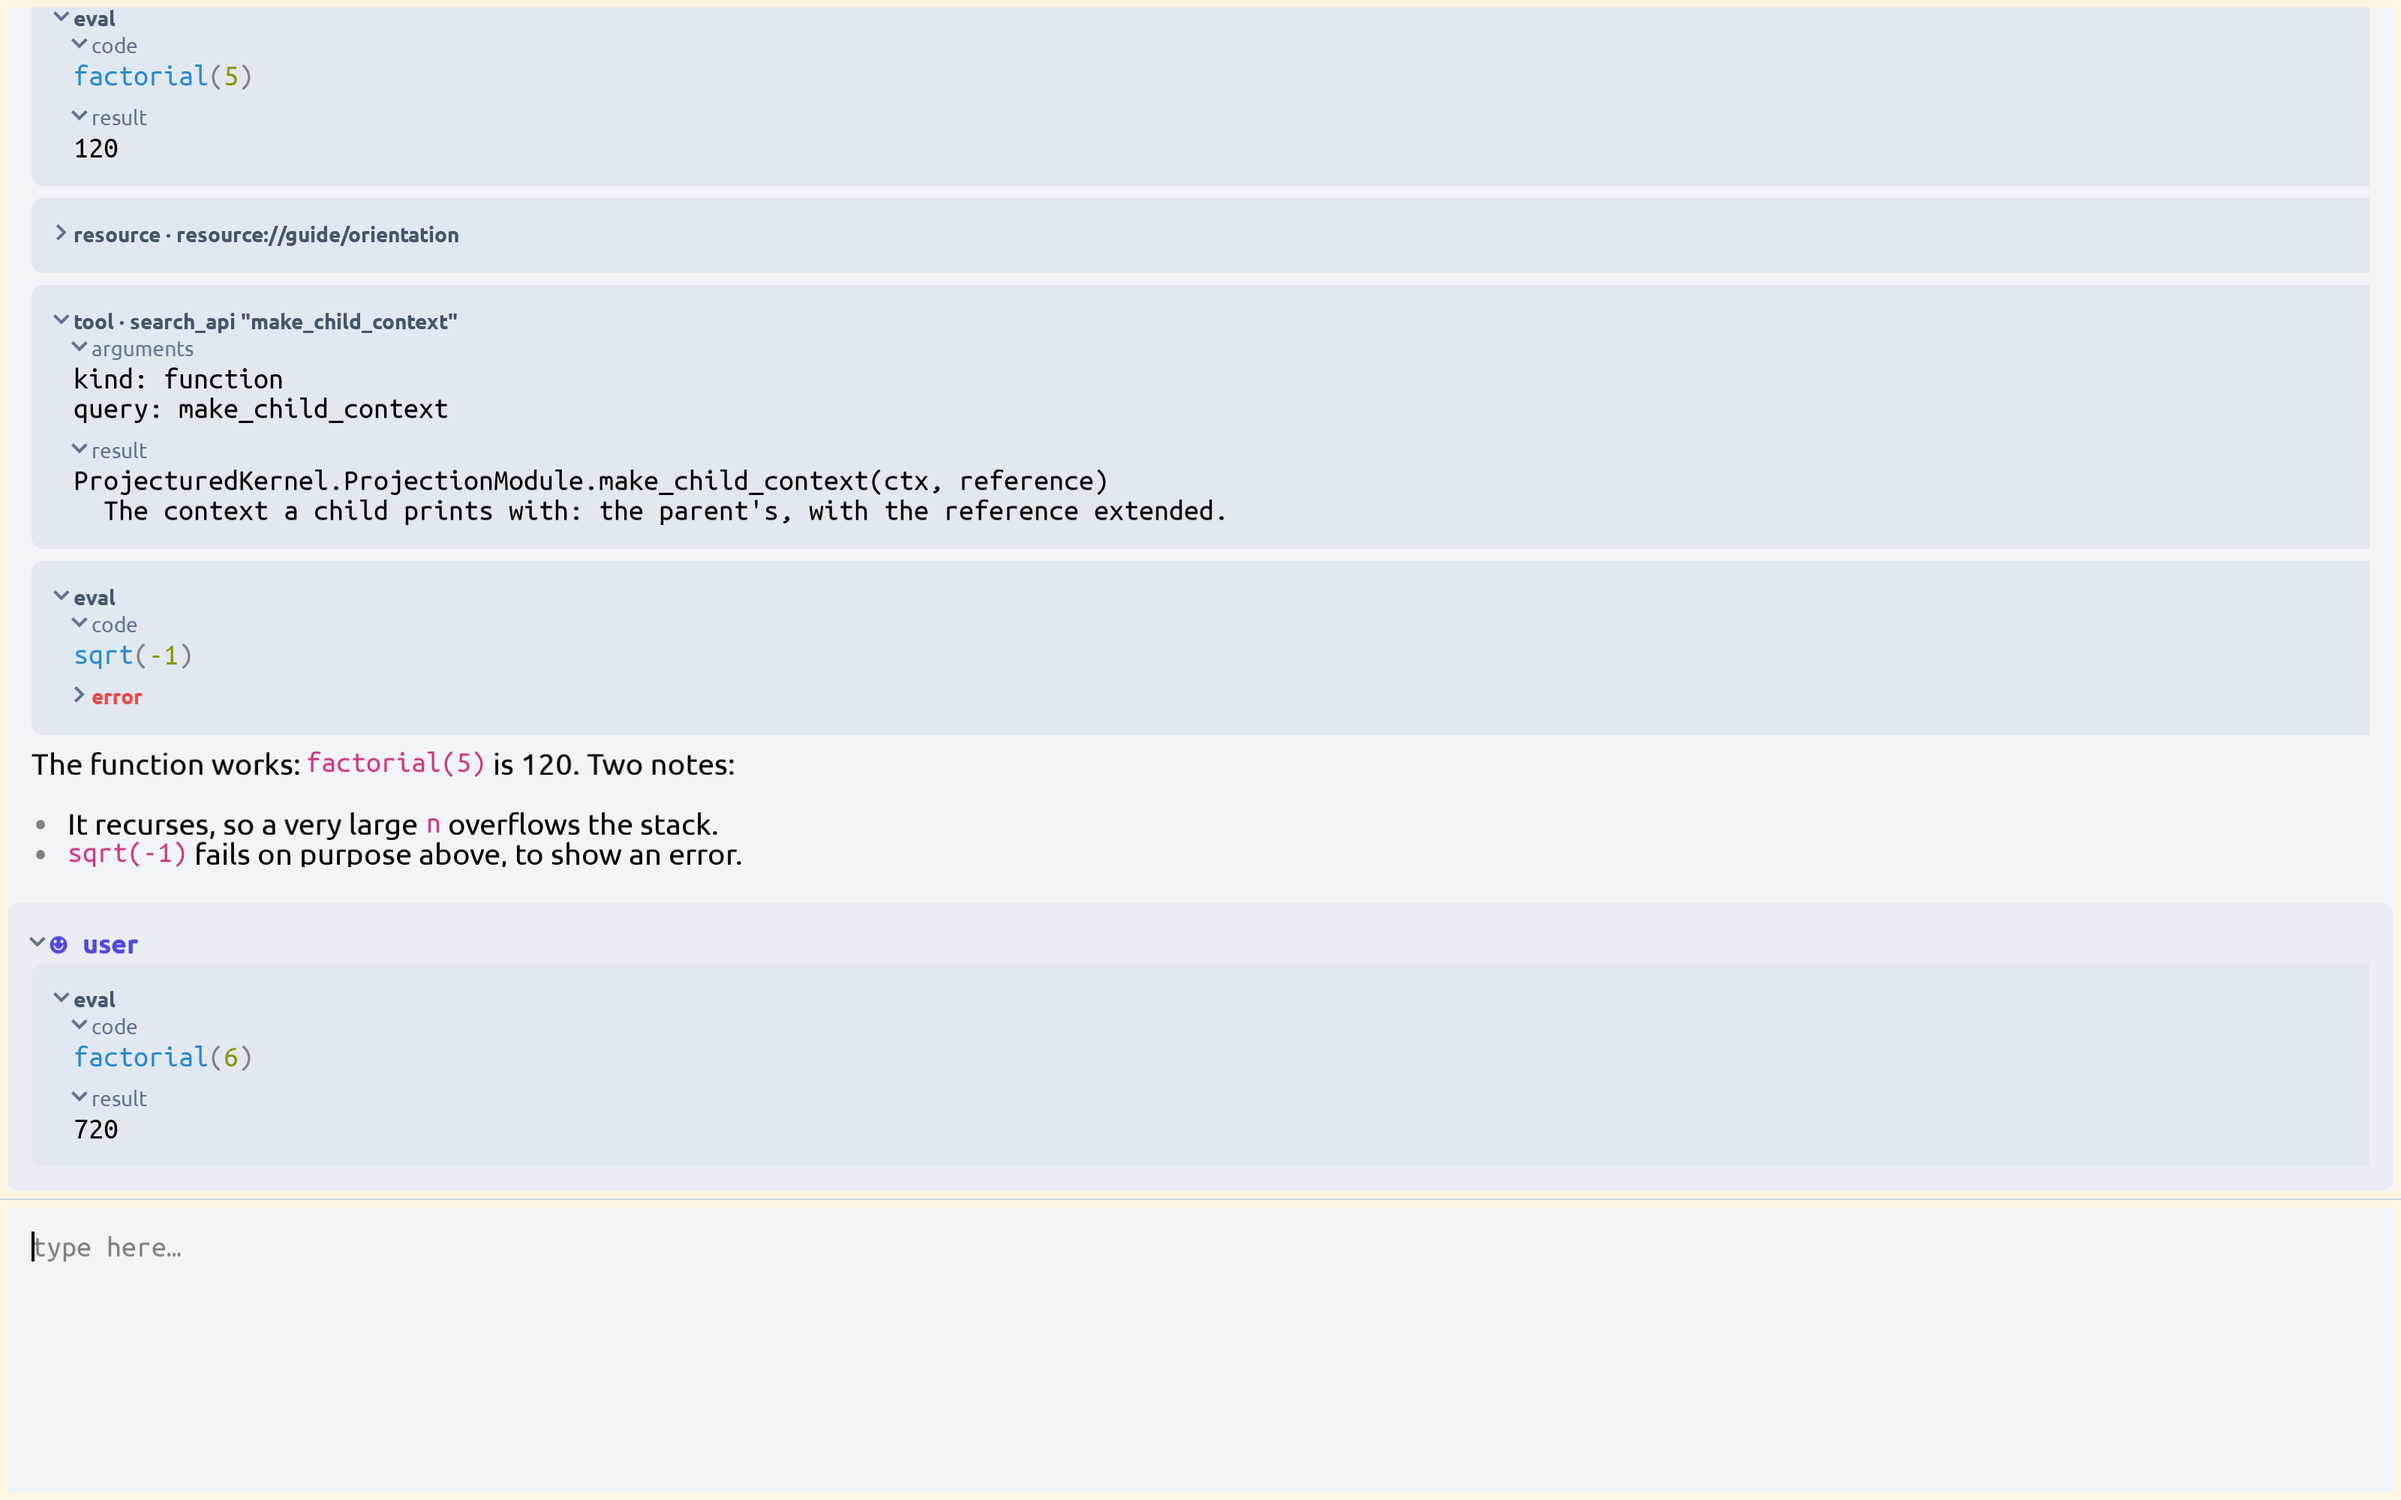
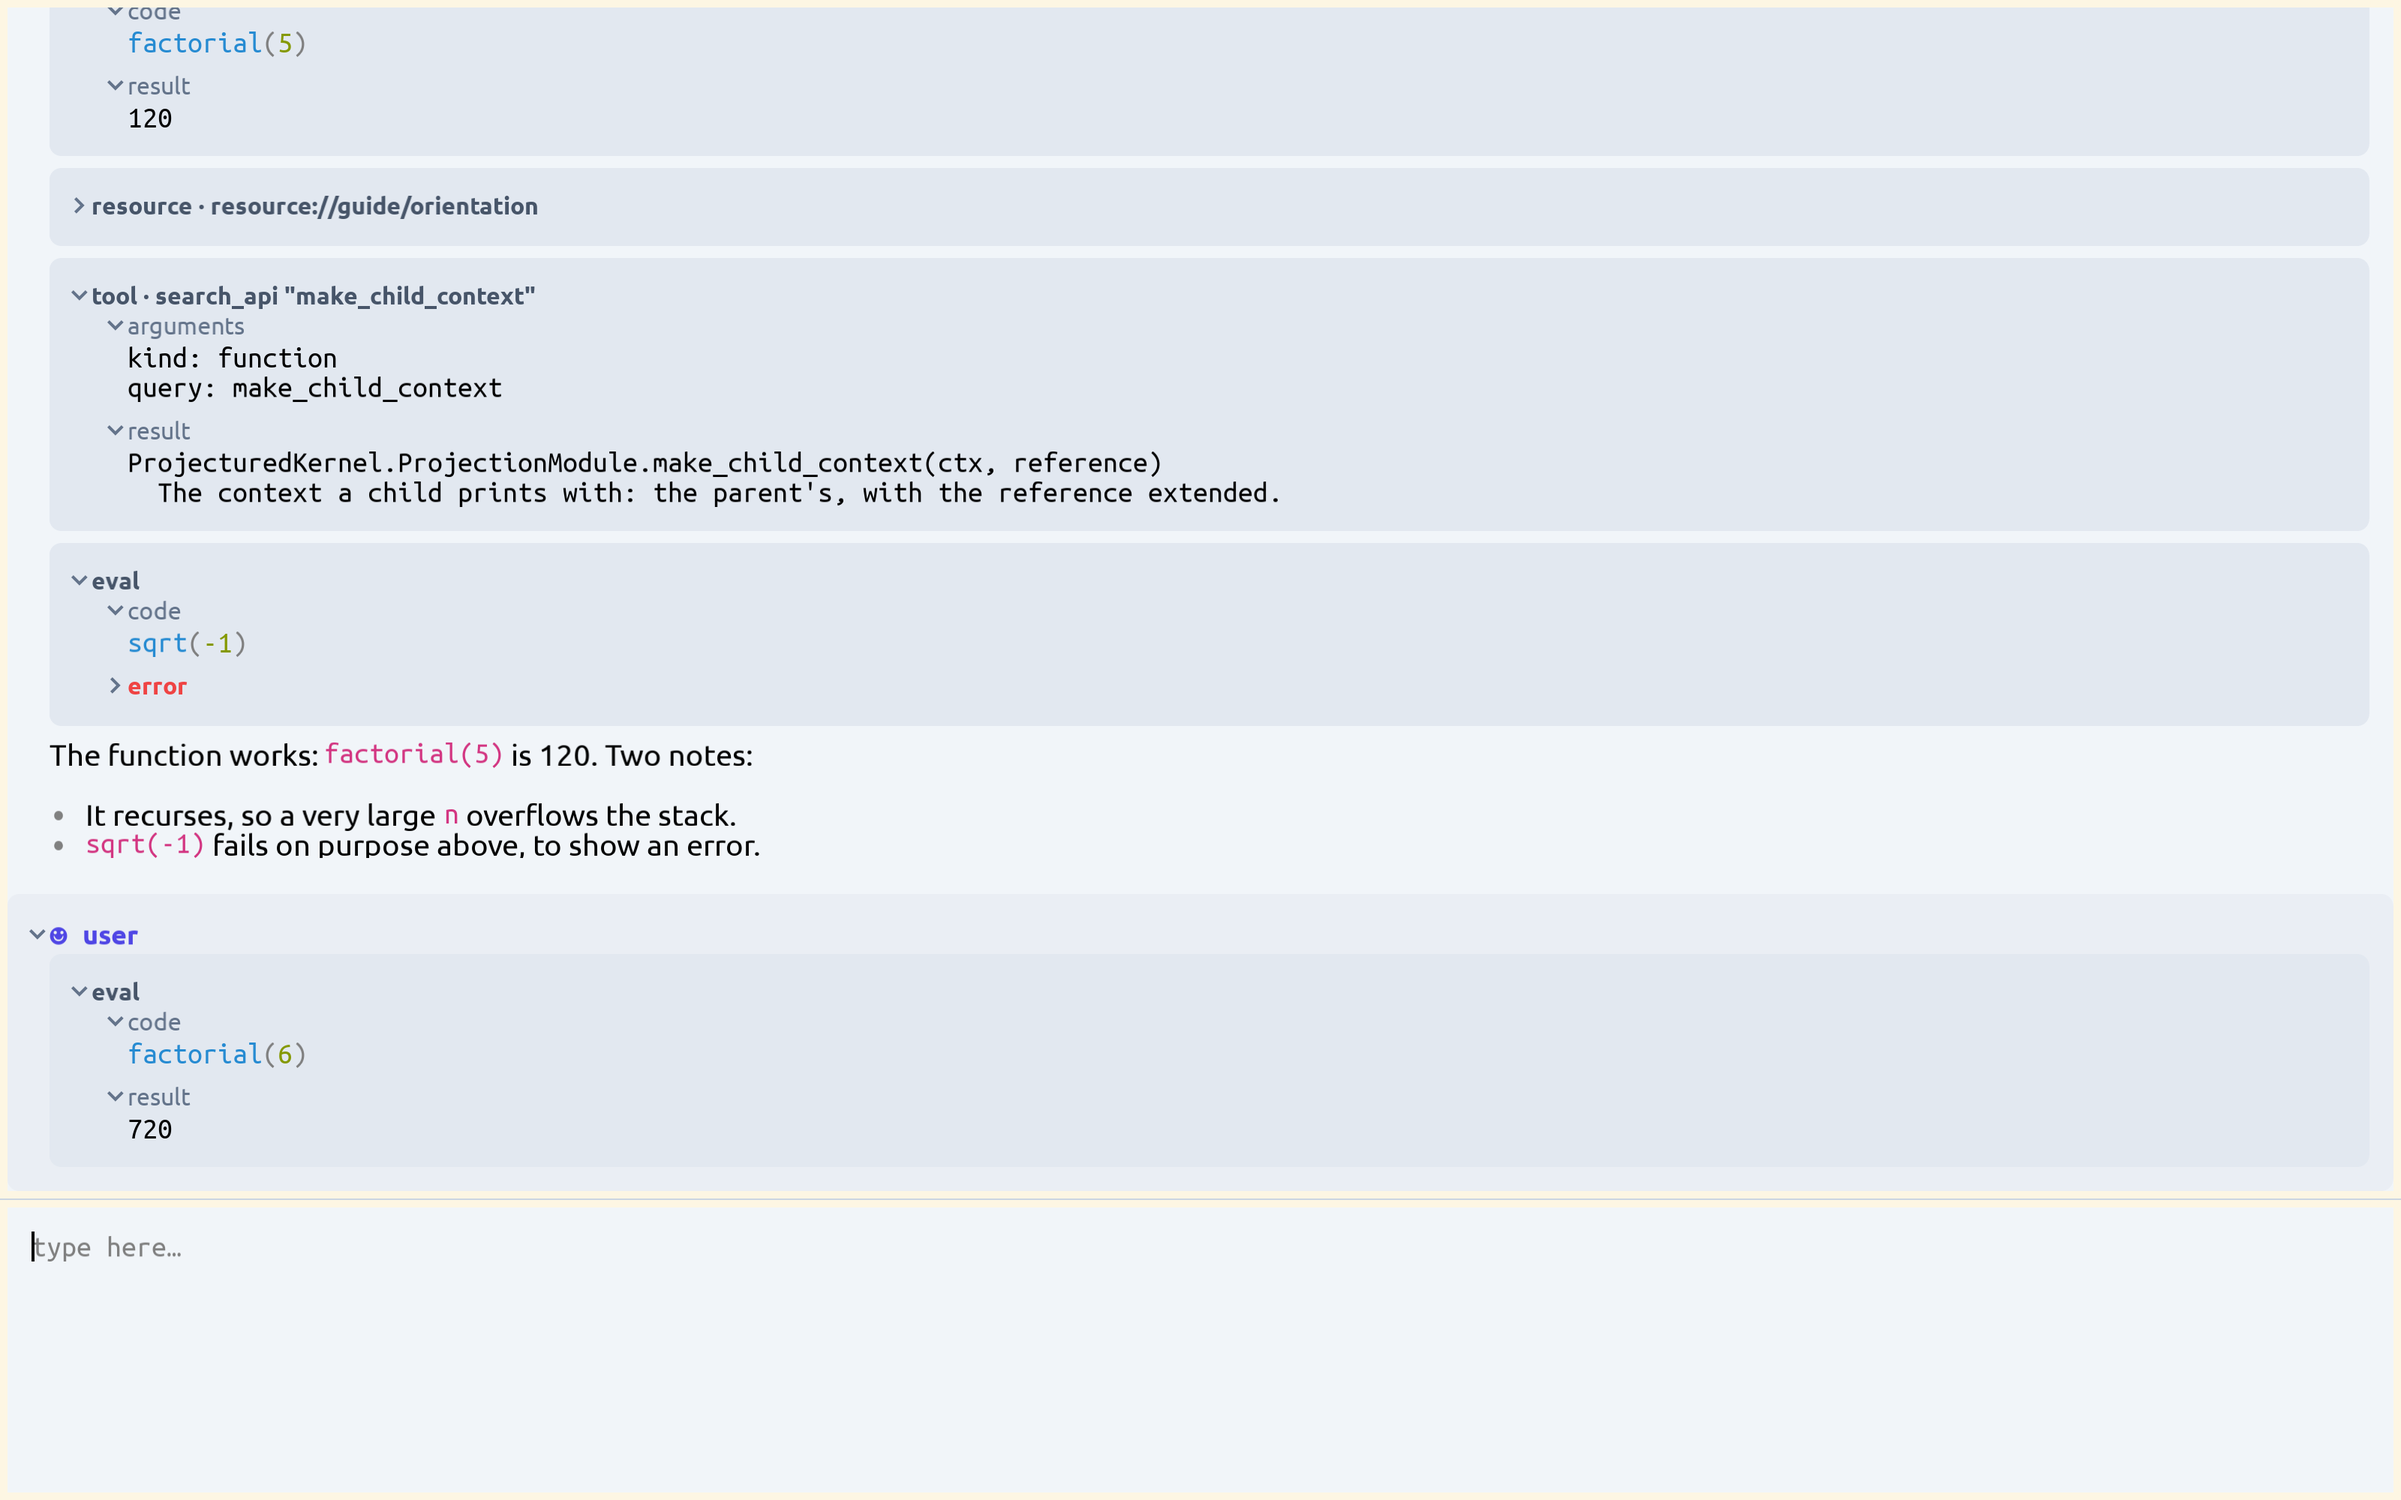
The body of a collapsible card lines up under its title's word
The chevron takes a column of its own, and the title, the body and the
footer of a collapsible card start past it, so the code, the arguments and
the result of an evaluation sit under the section's word and not under its
mark. The kind and section headers of the transcript are 16 pixels, and the
mark sits one pixel under the header's middle line, beside the ink.

diff --git a/plan/done/transcript-folds.md b/plan/done/transcript-folds.md
@@ -171,6 +171,11 @@ struct, and the widget dispatch table is built once.
 - The renderer draws the chevron from `_push_chevron!` with the theme's chevron
   half-size (4) in the muted foreground; the header moves right by two
   half-sizes plus the title gap, 12 pixels.
+- The body moves with the header. The user asked for the arguments and the
+  result of a call to line up under the section's word and not under its
+  chevron, and the disclosure convention says the same for every card: the
+  chevron takes a column of its own, and the title, the body and the footer
+  start past it.
 - New example `widget_collapsible_card_example`, an open card over a folded one.
   The test is `test_widget_card_fold()`, in the substrate suite: the chevron's
   direction in both states, the body absent when folded, the fold on the
@@ -416,14 +421,14 @@ every item of the list above. The final values:
 | Constant | Value |
 | --- | --- |
 | `_ROLE_FONT` | `font_ubuntu_bold_18`, in the role's color |
-| `_KIND_STYLE` | `font_ubuntu_bold_14`, `color_slate_600` |
-| `_SECTION_STYLE` | `font_ubuntu_regular_14`, `color_slate_500` |
-| `_ERROR_STYLE` | `font_ubuntu_bold_14`, `color_destructive` |
+| `_KIND_STYLE` | `font_ubuntu_bold_16`, `color_slate_600` |
+| `_SECTION_STYLE` | `font_ubuntu_regular_16`, `color_slate_500` |
+| `_ERROR_STYLE` | `font_ubuntu_bold_16`, `color_destructive` |
 | `_GAP` (between parts) | 8 |
 | `_TURN_GAP` (between turns) | 8 |
 | `_SECTION_GAP` (between the two sections) | 10 |
 | `_SECTION_INDENT` | 12 |
-| chevron | the theme's half-size 4, muted foreground |
+| chevron | the theme's half-size 4, muted foreground, one pixel under the header's middle |
 
 Two things the render showed that this plan does not fix:
 

diff --git a/documentation/package/widget/widget.md b/documentation/package/widget/widget.md
@@ -52,7 +52,7 @@ the fields they need plus `visible`/`selection`:
 |---|---|
 | `WidgetBadge(position, content; variant)` | Pill label (`:default`/`:secondary`/`:destructive`/`:outline`) |
 | `WidgetSeparator(position; orientation, length)` | Hairline divider |
-| `WidgetCard(position; title, description, content, footer; variant, collapsible, padding)` | Surface with header/body/footer. `variant` says how loud the panel is (`:card`/`:tinted`/`:muted`/`:plain`). A `collapsible` card draws a chevron before its `Document` title, folds from its whole header band, and draws only the header while `collapsed`. `padding` overrides the theme's padding, one number for every side or an `Inset`; `0` on a `:plain` card occupies nothing beyond its content |
+| `WidgetCard(position; title, description, content, footer; variant, collapsible, padding)` | Surface with header/body/footer. `variant` says how loud the panel is (`:card`/`:tinted`/`:muted`/`:plain`). A `collapsible` card draws a chevron before its `Document` title, folds from its whole header band, draws only the header while `collapsed`, and lines its body up under the title's word, past the chevron. `padding` overrides the theme's padding, one number for every side or an `Inset`; `0` on a `:plain` card occupies nothing beyond its content |
 | `WidgetSwitch(position, checked)` | On/off switch (track + knob) |
 | `WidgetProgress(position, value)` | Progress bar (`value ∈ [0,1]`) |
 | `WidgetSlider(position, value)` | Slider (track + knob) |
